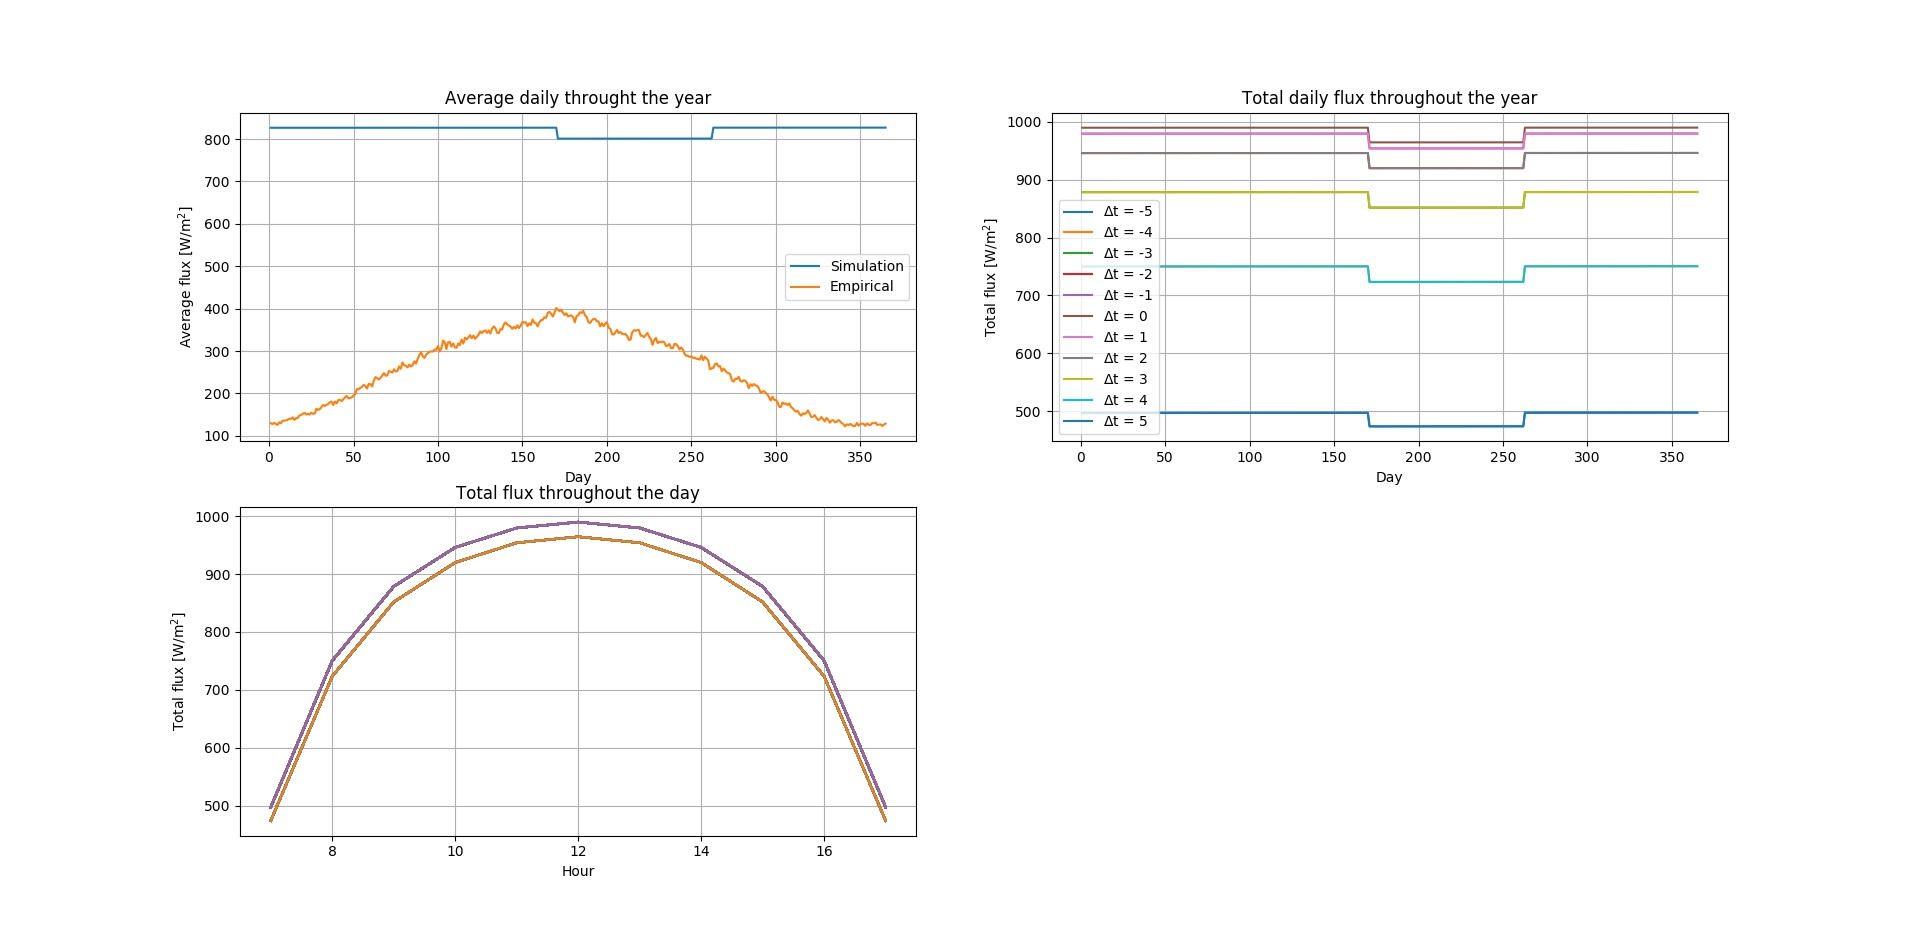
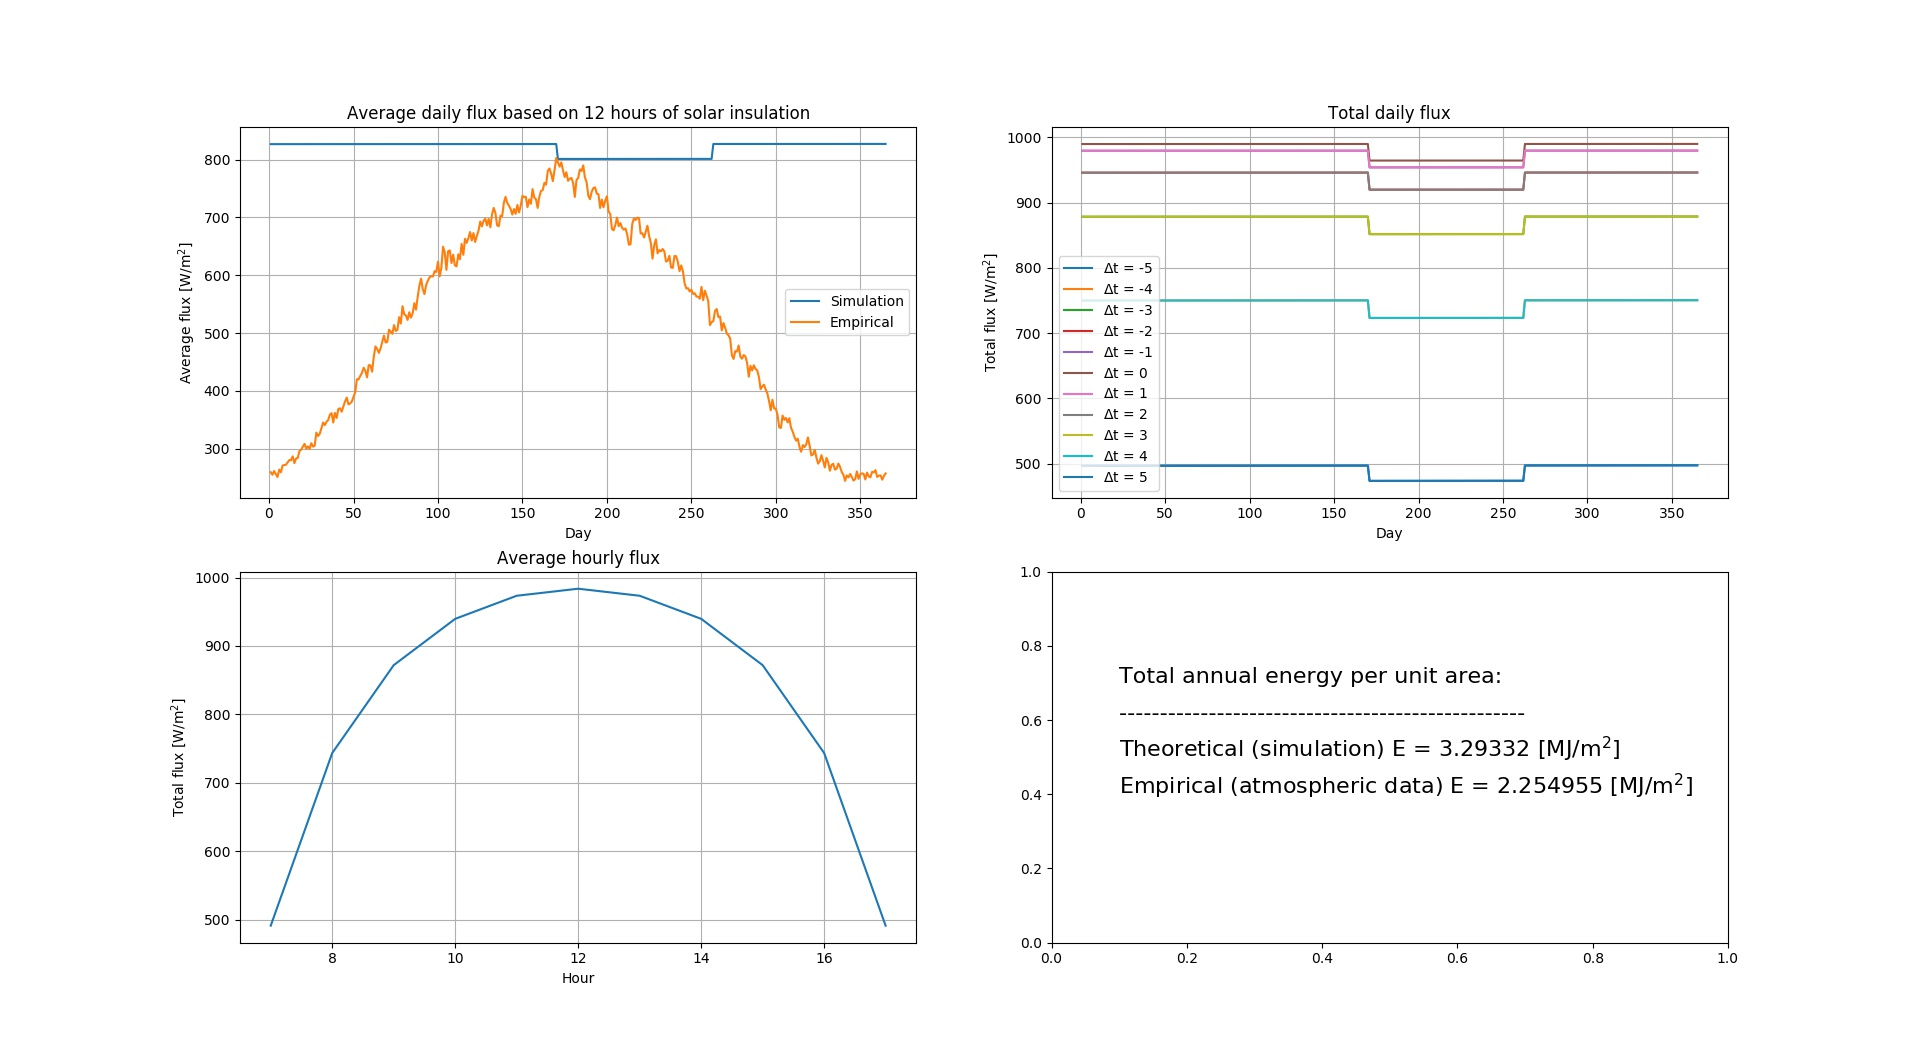
Added a total energy annotation to the graphs. Also, fixed the calculation and rescaled the empirical data to fit based on 12 hours instead of 24 hours of insulation (no solar at night...)

diff --git a/insulation_model.py b/insulation_model.py
@@ -84,7 +84,13 @@ for i in range(len(days)):
 
 
 ''' Importing empirical data '''
-Gav_emp = np.loadtxt('empirical_insulation.txt')
+Gav_emp = 2*np.loadtxt('empirical_insulation.txt') 
+#Multiplting since the eimpirical averaging is for 24 hours
+
+
+''' Calculation of total annual solar energy (average) '''
+E_sim = np.sum(Gtot) # Here we have all the data so simply sum it all
+E_emp = np.sum(Gav_emp)*12 # Multiply every day average by 12 hours of insulation
 
 
 ''' Plotting the results '''
@@ -97,7 +103,7 @@ ax1.plot(days,Gav_day, label = "Simulation")
 ax1.plot(days,Gav_emp, label = "Empirical")
 ax1.set_xlabel("Day")
 ax1.set_ylabel("Average flux [W/m$^2$]")
-ax1.set_title("Average daily flux")
+ax1.set_title("Average daily flux based on 12 hours of solar insulation")
 ax1.legend()
 ax1.grid()
 
@@ -119,3 +125,9 @@ ax3.set_ylabel("Total flux [W/m$^2$]")
 ax3.set_title("Average hourly flux")
 ax3.legend()
 ax3.grid()
+
+ax4 = fig1.add_subplot(224)
+ax4.text(0.1,0.7, "Total annual energy per unit area: ", fontsize = 16)
+ax4.text(0.1,0.6, "-------------------------------------------------- ", fontsize = 16)
+ax4.text(0.1,0.5, "Theoretical (simulation) E = "+str(round(E_sim)/1e6)+" [MJ/m$^2$]", fontsize = 16)
+ax4.text(0.1,0.4, "Empirical (atmospheric data) E = "+str(round(E_emp)/1e6)+" [MJ/m$^2$]", fontsize = 16)
